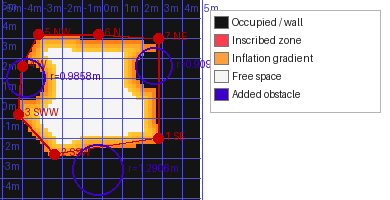
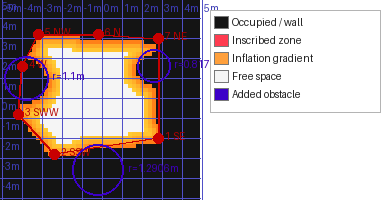
Costmap: CraterW r 1.10 m, CraterNE r 0.82 m (11/18)
CraterNE from the closest the rover should get, (1.703, 0.778): its distance
from the centre minus 0.4 m (0.91 -> 0.82). CraterW set to 1.10 m (was 0.99;
the closest point (-2.329, 0.902) alone would give 1.02).

Changed region(s): [[0.0, 0.24, 0.2769, 0.6], [0.3077, 0.24, 0.5538, 0.51]]

diff --git a/scripts/update_costmap.py b/scripts/update_costmap.py
@@ -91,11 +91,21 @@ DEFAULT_LABELS = ["1 SE", "2 SSW", "3 SWW", "4 W", "5 NW", "6 N", "7 NE"]
 # (E:/perception-data/costmap-calib-data/11172026), diameters measured with a tape (feet),
 # radius = diameter / 2 + a 0.3 m safety margin. Until 11/17 only the south crater, at its
 # 10/27 centre (-0.1587, -3.6945) with r 1.0.
+# 11/18: CraterW and CraterNE instead from the closest the rover (OptiTrack pose) should get,
+# given on 11/18: radius = that point's distance from the centre - ROVER_REACH, the rule used
+# for the crater figures (the rover centre gets about this close to a drawn circle).
 FT = 0.3048
 CRATER_MARGIN = 0.3
+ROVER_REACH = 0.4
+
+
+def _radius_to(cx, cy, px, py):
+    return math.hypot(px - cx, py - cy) - ROVER_REACH
+
+
 DEFAULT_OBSTACLES = [
-    ( 2.6848,  1.4989, 4.0 * FT / 2 + CRATER_MARGIN),   # CraterNE, 4 ft across
-    (-3.7534,  0.9315, 4.5 * FT / 2 + CRATER_MARGIN),   # CraterW, 4.5 ft across
+    ( 2.6848,  1.4989, _radius_to(2.6848, 1.4989, 1.7033, 0.7777)),    # CraterNE, closest (1.703, 0.778): r 0.82 (was 0.91)
+    (-3.7534,  0.9315, 1.10),  # CraterW: r 1.10 (11/18; was 0.99; the closest point (-2.329, 0.902) alone gives 1.02)
     (-0.0440, -3.6411, 6.5 * FT / 2 + CRATER_MARGIN),   # CraterS (the south crater, 11/17 centre), 6.5 ft across
 ]
 # Every arena edge is moved this far towards the inside before rasterizing (10/28/26:
